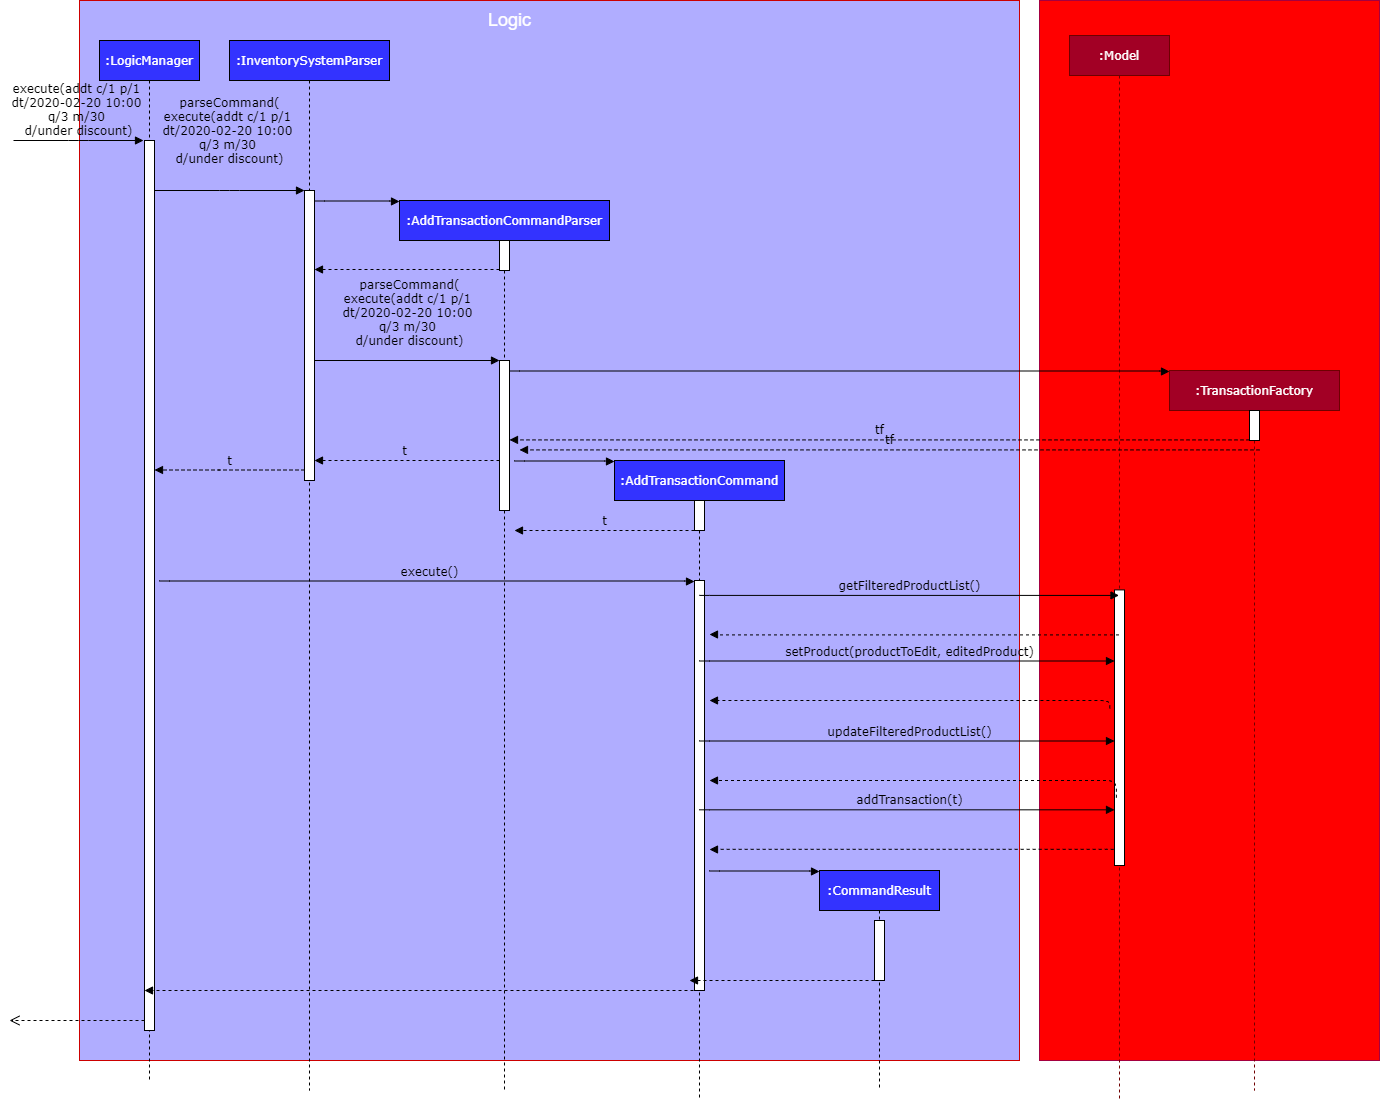
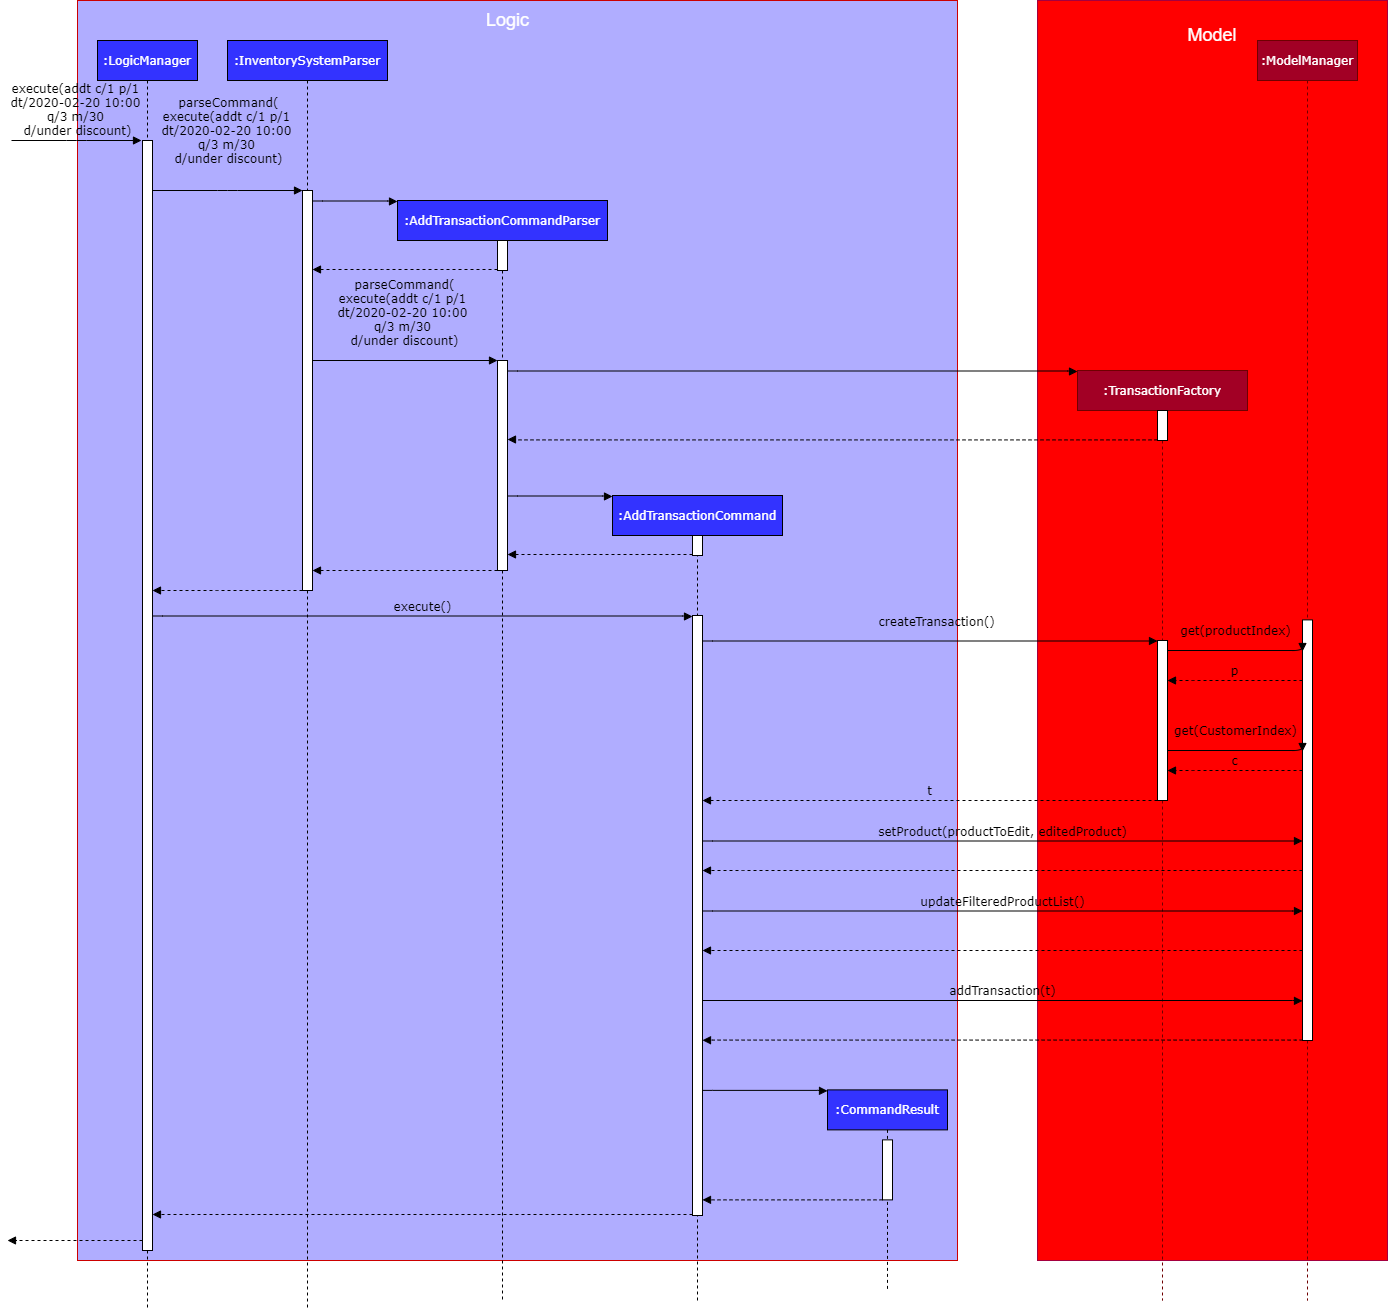
Rebuild pages at fb0ec7e898db285a69bbf3fd359605ff762f9149

diff --git a/DeveloperGuide.html b/DeveloperGuide.html
@@ -3,7 +3,7 @@
 <link rel="stylesheet" href="stylesheets/coderay-asciidoctor.css"></head><body class="article"><div id="seedu-header"><nav class="navbar navbar-lg navbar-light bg-lighter"><div class="container"><a class="navbar-brand" href="https://se-edu.github.io/"><img src="images/SeEduLogo.png" alt="SE-EDU"></a><ul class="navbar-nav"><li class="nav-item"><a class="nav-link" href="https://se-edu.github.io/addressbook-level1">AB-1</a></li><li class="nav-item"><a class="nav-link" href="https://se-edu.github.io/addressbook-level2">AB-2</a></li><li class="nav-item"><a class="nav-link active" href="index.html">AB-3</a></li><li class="nav-item"><a class="nav-link" href="https://se-edu.github.io/addressbook-level4">AB-4</a></li><li class="nav-item"><a class="nav-link" href="https://se-edu.github.io/collate">Collate</a></li><li class="nav-item"><a class="nav-link" href="https://se-edu.github.io/se-book">Book</a></li><li class="nav-item"><a class="nav-link" href="https://se-edu.github.io/learningresources">Resources</a></li></ul></div></nav></div><div id="site-header"><nav class="navbar navbar-light bg-light"><div class="container"><a class="navbar-brand" href="index.html">iTrack Pro</a><ul class="navbar-nav"><li class="nav-item"><a class="nav-link" href="UserGuide.html">User Guide</a></li><li class="nav-item"><a class="nav-link active" href="DeveloperGuide.html">Developer Guide</a></li><li class="nav-item"><a class="nav-link" href="LearningOutcomes.html">LOs</a></li><li class="nav-item"><a class="nav-link" href="AboutUs.html">About Us</a></li><li class="nav-item"><a class="nav-link" href="ContactUs.html">Contact Us</a></li><li class="navitem"><a class="nav-link" href="https://github.com/AY1920S2-CS2103-T09-2/main.git"><span class="fa fa-github fa-lg" aria-hidden="true"></span>&nbsp;View on GitHub</a></li></ul></div></nav></div><div id="header"><h1>iTrack Pro - Developer Guide</h1></div><div id="content"><div id="preamble">
 <div class="sectionbody">
 <div class="paragraph">
-<p>By: <code>Team SE-EDU</code>      Since: <code>Jun 2016</code>      Licence: <code>MIT</code></p>
+<p>By: <code>iTrackPro Team</code>      Since: <code>Feb 2020</code>      Licence: <code>MIT</code></p>
 </div>
 </div>
 <div id="toc" class="toc">
@@ -766,14 +766,132 @@ updated transaction will be added to a new index or existing index of the <code>
 <code>InventorySystem</code> class. For the <code>deleteTransactionCommand</code>, a transaction will be dropped from the <code>internalList</code>.
 Since the <code>quantity</code> and <code>sales</code> attribute will affect the same attributes of a product, the affiliated <code>product</code> will
 also be edited. In the end, the <code>filteredTransactionList</code> of the system will be updated so that the user can view the change
-accordingly.</p>
+accordingly. Three commands are implemented corresponding to these 3 operations in the logic module:</p>
+</div>
+<div class="ulist">
+<ul>
+<li>
+<p><code>AddTransactionCommand</code>&#8201;&#8212;&#8201;Adds a transaction into the system and update the the quantity and sales attribute
+of the corresponding product.</p>
+</li>
+<li>
+<p><code>EditTransactionCommand</code>&#8201;&#8212;&#8201;Edit detials of a transaction. If <code>quantity</code> is changed, edit the affected product
+as well.</p>
+</li>
+<li>
+<p><code>DeleteTransactionCommand</code>&#8201;&#8212;&#8201;Delete a transaction from the system and edit the affiliated product.</p>
+</li>
+</ul>
+</div>
+<div class="paragraph">
+<p>For each command, a parser is implemented to parse the input into arguments.</p>
+</div>
+<div class="ulist">
+<ul>
+<li>
+<p><code>AddTransactionCommmandParser</code>&#8201;&#8212;&#8201;Parse the add transaction input and generates <code>AddTransactionCommand</code>.<br></p>
+</li>
+<li>
+<p><code>EditTransactionCommandParser</code>&#8201;&#8212;&#8201;Parse the edit transaction input and generates <code>EditTransactionCommand</code>.<br></p>
+</li>
+<li>
+<p><code>DeleteTransactionCommandParser</code> --Parse the delete transaction input and generates <code>DeleteTransactionCommand</code>.<br></p>
+</li>
+</ul>
 </div>
 <div class="paragraph">
 <p>The following sequence diagram shows how each operation works.</p>
 </div>
+<div class="paragraph">
+<p>AddTransaction Operation:</p>
+</div>
 <div class="imageblock">
 <div class="content">
 <img src="images/AddTransactionSequenceDiagram.png" alt="AddTransactionSequenceDiagram">
+</div>
+</div>
+<div class="admonitionblock note">
+<table>
+<tr>
+<td class="icon">
+<i class="fa icon-note" title="Note"></i>
+</td>
+<td class="content">
+The AddTransactionCommmandParser returns a transactionFacotry with <code>productIndex</code> and <code>customerIndex</code>, while a
+transaction is only generated in AddTransactionCommand.
+</td>
+</tr>
+</table>
+</div>
+<div class="sect3">
+<h4 id="design-considerations-3"><a class="link" href="#design-considerations-3">3.4.1. Design Considerations</a></h4>
+<div class="sect4">
+<h5 id="aspect-how-to-store-product-customer-in-transaction"><a class="link" href="#aspect-how-to-store-product-customer-in-transaction">Aspect: How to store product &amp; customer in transaction.</a></h5>
+<div class="ulist">
+<ul>
+<li>
+<p><strong>Alternative 1 (current choice):</strong> Store the product/ customer instance as an attribute.</p>
+<div class="ulist">
+<ul>
+<li>
+<p>Pros: Easy to construct a transaction and display product/ customer name.</p>
+</li>
+<li>
+<p>Cons: Easy to generate bugs while any of the instance is editted.</p>
+</li>
+</ul>
+</div>
+</li>
+<li>
+<p><strong>Alternative 2:</strong> Store an unique id and name of the product/ customer.</p>
+<div class="ulist">
+<ul>
+<li>
+<p>Pros: Do not need to update transaction while product is editted.</p>
+</li>
+</ul>
+</div>
+</li>
+</ul>
+</div>
+</div>
+<div class="sect4">
+<h5 id="aspect-how-to-change-the-quantity-sales-attribute-of-product-while-edtting-transactions"><a class="link" href="#aspect-how-to-change-the-quantity-sales-attribute-of-product-while-edtting-transactions">Aspect: How to change the quantity &amp; sales attribute of product while edtting transactions.</a></h5>
+<div class="ulist">
+<ul>
+<li>
+<p><strong>Alternative 1 (current choice):</strong> If quantity/ product is changed,
+re-store the quantity &amp; sales of the original product, check validation
+(whether the product has that much inventory as required on transaction), and then
+and update the quantity &amp; sales of the new product.</p>
+<div class="ulist">
+<ul>
+<li>
+<p>Pros: Easy to implement.</p>
+</li>
+<li>
+<p>Cons: Likely to generate bugs when the new quantity exceeds inventory, i.e. the edit operation is not valid.</p>
+</li>
+</ul>
+</div>
+</li>
+<li>
+<p><strong>Alternative 2:</strong> If quantity/ product is changed, check validation first,
+re-store the quantity &amp; sales of the original product, and then
+and update the quantity &amp; sales of the new product.</p>
+<div class="ulist">
+<ul>
+<li>
+<p>Pros: Straightforward logic, not likely to create bugs.</p>
+</li>
+<li>
+<p>Cons: Validation checking would be very complex.</p>
+</li>
+</ul>
+</div>
+</li>
+</ul>
+</div>
 </div>
 </div>
 </div>
@@ -1591,4 +1709,4 @@ Expected: Similar to previous.</p>
 </div>
 </div>
 </div>
-</div></div><div id="footer"><div class="container"><div id="footer-text">Last updated 2020-03-25 16:02:01 UTC</div></div></div></body></html>
+</div></div><div id="footer"><div class="container"><div id="footer-text">Last updated 2020-03-26 00:59:42 UTC</div></div></div></body></html>

diff --git a/tutorials/RemovingFields.html b/tutorials/RemovingFields.html
@@ -175,4 +175,4 @@ While keeping the <code>address</code> field in the json files does not cause th
 <p>You can go through each individual <code>json</code> file and manually remove the <code>address</code> field.</p>
 </div>
 </div>
-</div></div><div id="footer"><div class="container"><div id="footer-text">Last updated 2020-03-25 16:02:01 UTC</div></div></div></body></html>
+</div></div><div id="footer"><div class="container"><div id="footer-text">Last updated 2020-03-26 00:59:42 UTC</div></div></div></body></html>

diff --git a/Testing.html b/Testing.html
@@ -90,4 +90,4 @@ e.g. <code>seedu.address.logic.LogicManagerTest</code></p>
 <div class="title">Figure 1. <code>Accessibility</code> permission is granted to <code>IntelliJ IDEA</code></div>
 </div>
 </div>
-</div></div><div id="footer"><div class="container"><div id="footer-text">Last updated 2020-03-25 16:02:01 UTC</div></div></div></body></html>
+</div></div><div id="footer"><div class="container"><div id="footer-text">Last updated 2020-03-26 00:59:42 UTC</div></div></div></body></html>

diff --git a/tutorials/AddRemark.html b/tutorials/AddRemark.html
@@ -616,4 +616,4 @@ In this case, <code>CommandTestUtil#assertCommandSuccess</code> is the best fit 
 <p>This concludes the tutorial for adding a new <code>Command</code> to AddressBook.</p>
 </div>
 </div>
-</div></div><div id="footer"><div class="container"><div id="footer-text">Last updated 2020-03-25 16:02:01 UTC</div></div></div></body></html>
+</div></div><div id="footer"><div class="container"><div id="footer-text">Last updated 2020-03-26 00:59:42 UTC</div></div></div></body></html>

diff --git a/team/johndoe.html b/team/johndoe.html
@@ -416,4 +416,4 @@ If the <code>currentStatePointer</code> is at index <code>addressBookStateList.s
 <p><em>{Optionally, you may include other projects in your portfolio.}</em></p>
 </div>
 </div>
-</div></div><div id="footer"><div class="container"><div id="footer-text">Last updated 2020-03-25 16:02:01 UTC</div></div></div></body></html>
+</div></div><div id="footer"><div class="container"><div id="footer-text">Last updated 2020-03-26 00:59:42 UTC</div></div></div></body></html>

diff --git a/ContactUs.html b/ContactUs.html
@@ -12,4 +12,4 @@
 <p><strong>Email us</strong> : You can also reach us at <code>e0037186@u.nus.edu</code></p>
 </li>
 </ul>
-</div></div><div id="footer"><div class="container"><div id="footer-text">Last updated 2020-03-25 16:02:01 UTC</div></div></div></body></html>
+</div></div><div id="footer"><div class="container"><div id="footer-text">Last updated 2020-03-26 00:59:42 UTC</div></div></div></body></html>

diff --git a/LearningOutcomes.html b/LearningOutcomes.html
@@ -474,4 +474,4 @@ of storages, but different number of storages (e.g. save to both a text file and
 </div>
 </div>
 </div>
-</div></div><div id="footer"><div class="container"><div id="footer-text">Last updated 2020-03-25 16:02:01 UTC</div></div></div></body></html>
+</div></div><div id="footer"><div class="container"><div id="footer-text">Last updated 2020-03-26 00:59:42 UTC</div></div></div></body></html>

diff --git a/SettingUp.html b/SettingUp.html
@@ -180,4 +180,4 @@ Having both Travis and AppVeyor ensures your App works on both Unix-based platfo
 </div>
 </div>
 </div>
-</div></div><div id="footer"><div class="container"><div id="footer-text">Last updated 2020-03-25 16:02:01 UTC</div></div></div></body></html>
+</div></div><div id="footer"><div class="container"><div id="footer-text">Last updated 2020-03-26 00:59:42 UTC</div></div></div></body></html>

diff --git a/UsingCoveralls.html b/UsingCoveralls.html
@@ -111,4 +111,4 @@ If you have not set up Travis CI, see <a href="UsingTravis.html">UsingTravis.ado
 </ol>
 </div>
 </div>
-</div></div><div id="footer"><div class="container"><div id="footer-text">Last updated 2020-03-25 16:02:01 UTC</div></div></div></body></html>
+</div></div><div id="footer"><div class="container"><div id="footer-text">Last updated 2020-03-26 00:59:42 UTC</div></div></div></body></html>

diff --git a/UsingGradle.html b/UsingGradle.html
@@ -228,4 +228,4 @@ See <code>build.gradle</code> &#8594; <code>allprojects</code> &#8594; <code>dep
 </ul>
 </div>
 </div>
-</div></div><div id="footer"><div class="container"><div id="footer-text">Last updated 2020-03-25 16:02:01 UTC</div></div></div></body></html>
+</div></div><div id="footer"><div class="container"><div id="footer-text">Last updated 2020-03-26 00:59:42 UTC</div></div></div></body></html>

diff --git a/UsingNetlify.html b/UsingNetlify.html
@@ -138,4 +138,4 @@ The publish directory is the directory in which the built HTML documentation res
 </ol>
 </div>
 </div>
-</div></div><div id="footer"><div class="container"><div id="footer-text">Last updated 2020-03-25 16:02:01 UTC</div></div></div></body></html>
+</div></div><div id="footer"><div class="container"><div id="footer-text">Last updated 2020-03-26 00:59:42 UTC</div></div></div></body></html>

diff --git a/Documentation.html b/Documentation.html
@@ -226,4 +226,4 @@ The SE-EDU team does not provide support for modified template files.</p>
 </table>
 </div>
 </div>
-</div></div><div id="footer"><div class="container"><div id="footer-text">Last updated 2020-03-25 16:02:01 UTC</div></div></div></body></html>
+</div></div><div id="footer"><div class="container"><div id="footer-text">Last updated 2020-03-26 00:59:42 UTC</div></div></div></body></html>
